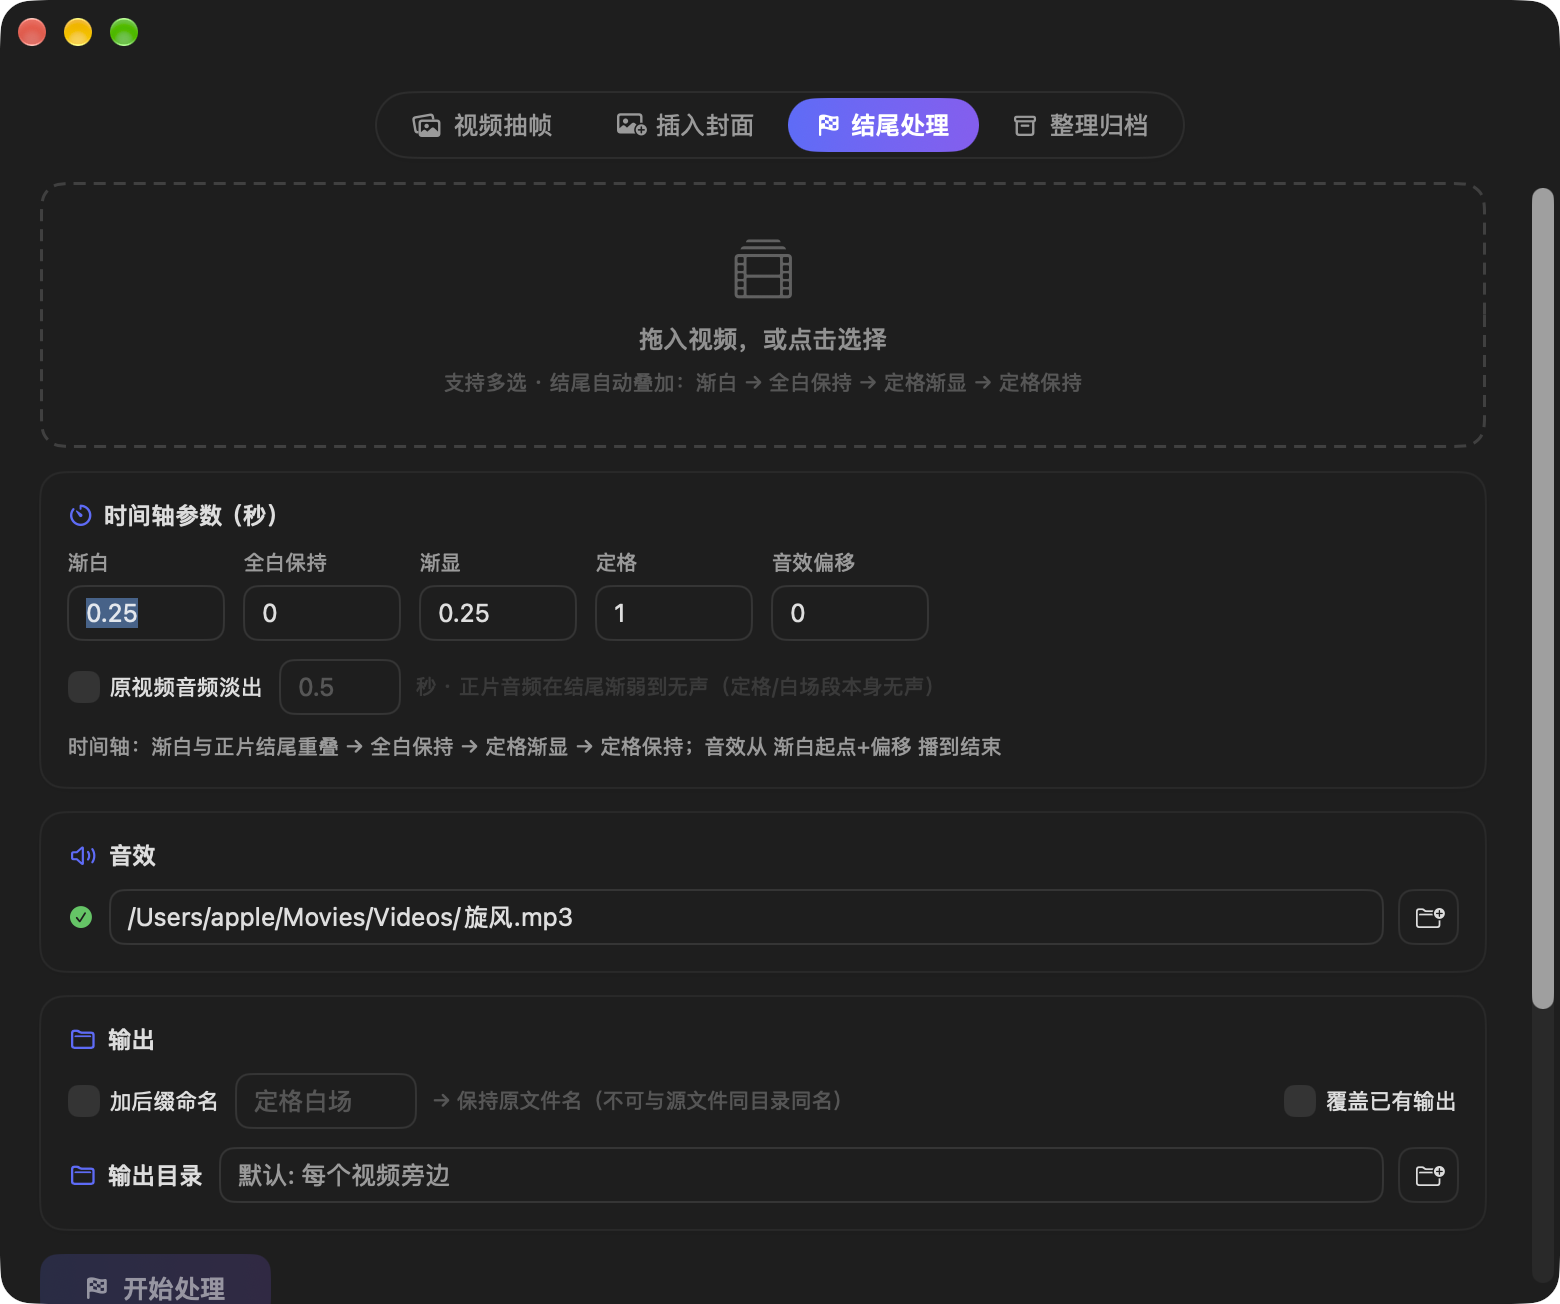
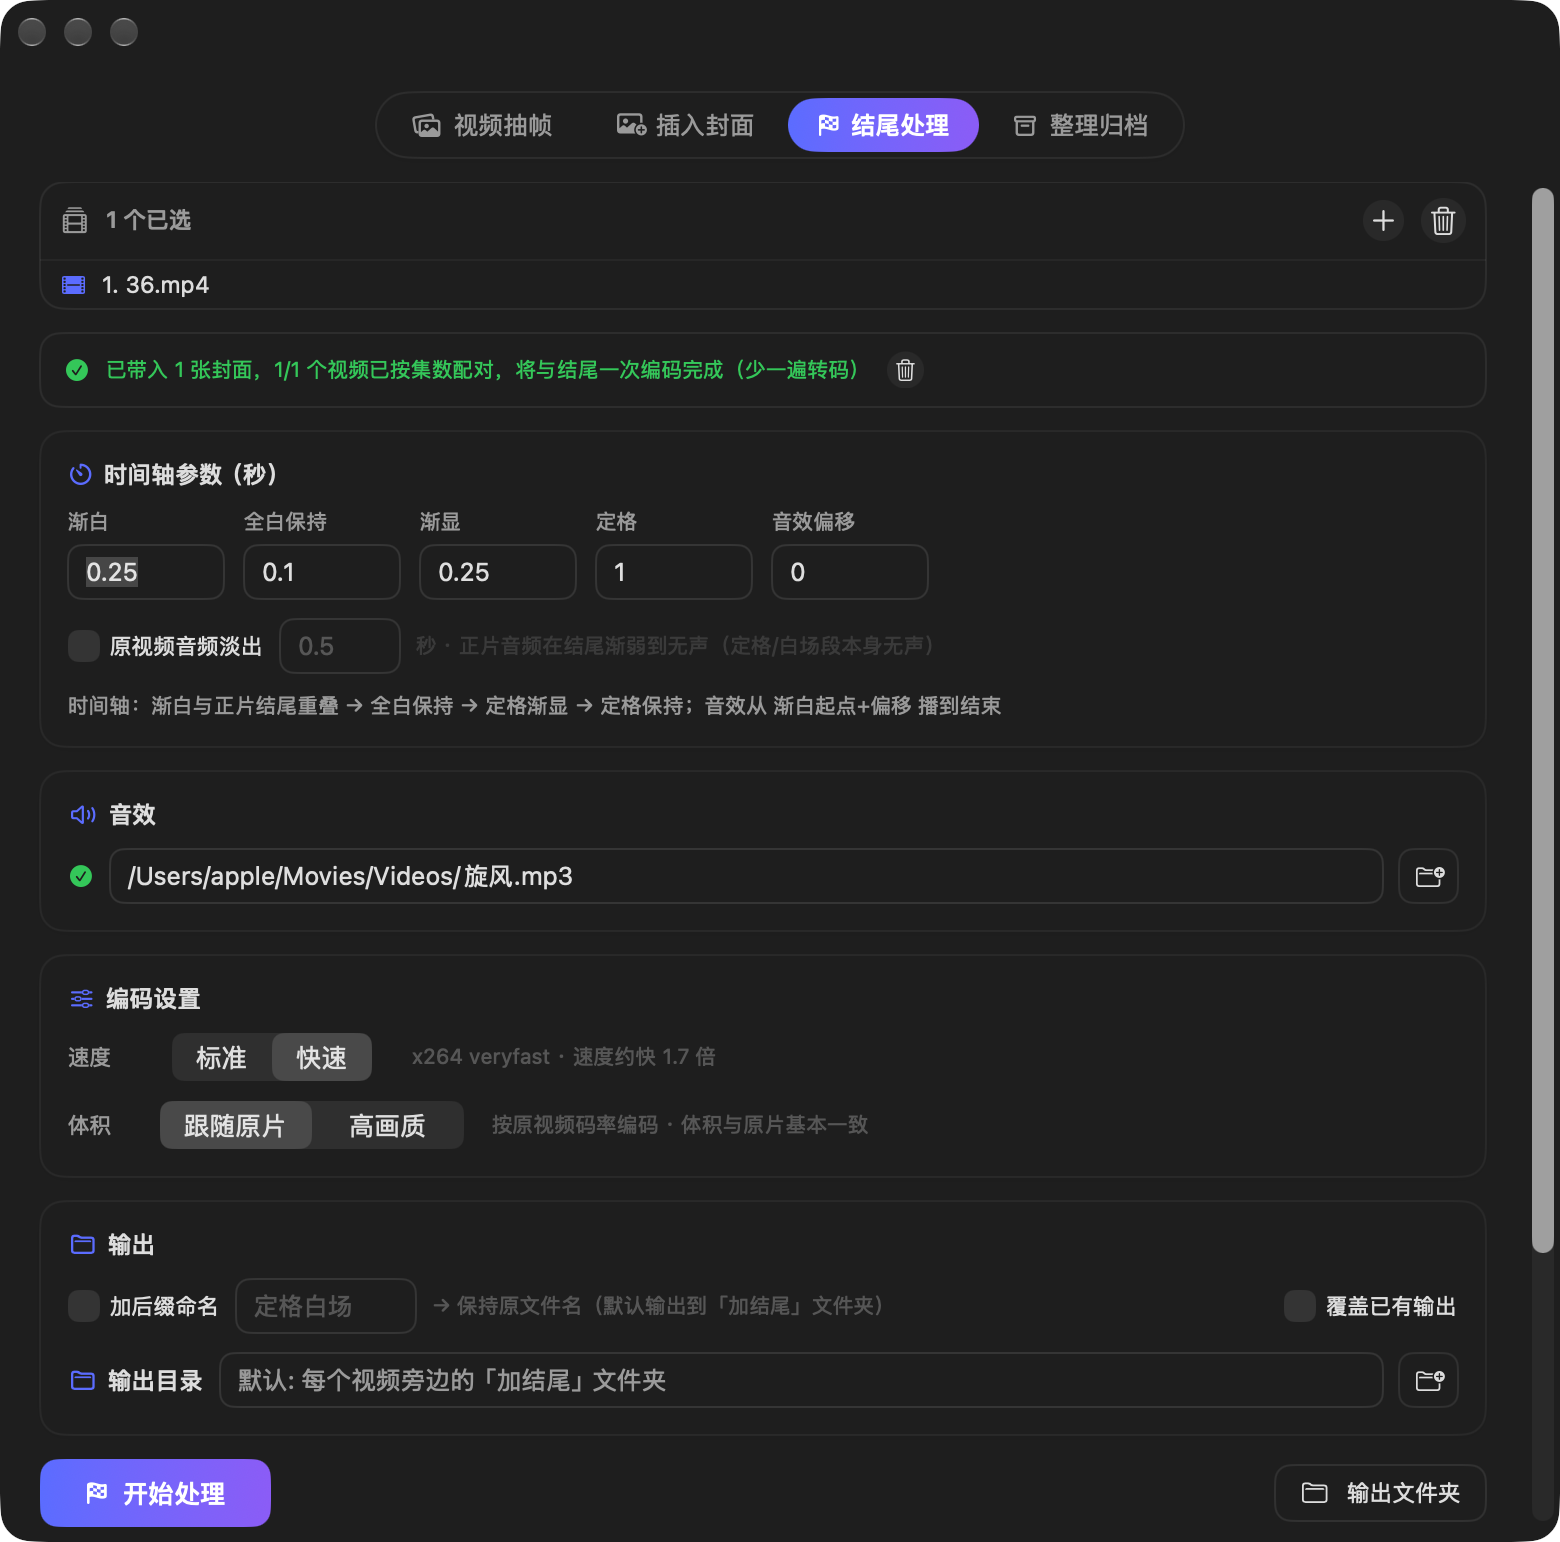
README 更新到 v3.13：四板块当前功能/参数说明、重拍截图、补充构建与设计说明

diff --git a/README.md b/README.md
@@ -2,76 +2,88 @@
 
 一款为短剧/批量视频后期处理打造的 macOS 原生工具（SwiftUI + 内置 ffmpeg），把「抽帧、封面、结尾效果、整理归档」四件事装进一个 App。
 
-![Version](https://img.shields.io/badge/version-3.5-blue) ![Platform](https://img.shields.io/badge/platform-macOS%20Apple%20Silicon-lightgrey) ![Swift](https://img.shields.io/badge/swift-5-orange)
+![Version](https://img.shields.io/badge/version-3.13-blue) ![Platform](https://img.shields.io/badge/platform-macOS%20Apple%20Silicon-lightgrey) ![Swift](https://img.shields.io/badge/swift-5-orange)
 
 ## 功能板块
+
+四个板块常驻在窗口里，左上角切换 —— 切走再切回，已选文件、参数、日志、处理进度都还在。
 
 ### 1. 视频抽帧
 
 ![视频抽帧](screenshots/01_视频抽帧.png)
 
-- 拖入视频（或文件夹），按设定间隔/数量抽取帧图
-- 支持自定义输出目录、PNG/JPG 格式、命名规则
+- 拖入视频（或文件夹），按设定间隔抽取帧图
+- 支持自定义输出目录、PNG/JPG 格式（JPG 可调质量）、起始名称与后缀
 
 ### 2. 插入封面
 
 ![插入封面](screenshots/02_插入封面.png)
 
 - 为视频开头插入一张封面帧（单图或整个封面目录，自动按集数配对，如 EP21 ↔ 封面21）
+- 输出体积档位：**跟随原片**（按源码率，体积约等于原片）／**高质量**（CRF 18）
+- 默认输出到每个视频旁边的「加封面」文件夹
 - 右下角「继续到结尾处理」按钮：一键把视频和封面带到结尾处理板块，合并成一次编码，避免二次转码
 
 ### 3. 结尾处理
 
 ![结尾处理](screenshots/03_结尾处理.png)
+
 结尾时间轴：**渐白 → 全白保持 → 定格渐显 → 定格保持**，可叠加：
-- 🎵 音效（自动对齐到结尾段起点）
+
+- 🎵 音效（自动对齐到结尾段起点，可加偏移）
 - 🔊 原视频音频淡出（可调时长）
-- 📁 输出目录 / 加后缀命名 / 覆盖已存在文件
-- 处理日志实时滚动显示
+- 🏷 加后缀命名，默认输出到每个视频旁边的「加结尾」文件夹
+- ⚡ 编码速度档位：**快速**（veryfast，默认）／**标准**（medium，更慢更省体积）
+- 📦 输出体积：**跟随原片**（默认）／**高质量**
+- ⏱ 实时进度条 + 每集用时 + 总耗时/平均，处理中可随时「停止处理」（已完成的文件保留，半成品自动清理）
 
 ### 4. 整理归档
 
 ![整理归档](screenshots/04_整理归档.png)
 
-- 按模板批量重命名：`{剧名} EP{序号}` 等，序号自动补零
-- 自动分类到「字幕 / 纯净 / 成片」三个子文件夹
-- 重复/冲突检测、模板自动补扩展名、一键撤销上次整理
+- 按模板批量重命名：`{剧名} EP{序号}` 等，支持 `{剧名} {序号} {日期} {时间} {原名} {扩展名}` 占位符
+- **普通视频原地改名**（不再生成「成片」文件夹）；带 `(N)` 副本标记的归到「纯净」，字幕文件归到「字幕」
+- 执行前预览改名对照、重复/冲突检测、执行后一键撤销、导出 CSV 对照表
+- 模板不含 `{扩展名}` 时自动补全后缀，防止输出丢扩展名
 
 ## 运行要求
 
-- macOS（Apple Silicon）
-- **无需安装 ffmpeg** —— 已内置到 App 包内（静态编译版 ffmpeg + ffprobe）
+- macOS 13.0 及以上（Apple Silicon）
+- **无需安装 ffmpeg** —— 已内置到 App 包内（静态编译版 ffmpeg 9.0 + ffprobe）
 
 ## 使用方式
 
-双击 `build/Video Post-Production.app` 即可。
+- 直接双击仓库里的 `build/Video Post-Production.app`
+- 或下载发布包：解压后把 App 拖进「应用程序」
 
 > 首次打开若被 Gatekeeper 拦截：右键 → 打开；或终端执行
-> `xattr -dr com.apple.quarantine "Video Post-Production.app"`
+> `xattr -dr com.apple.quarantine "/Applications/Video Post-Production.app"`
 
 ## 从源码构建
 
 ```bash
-# 编译 GUI App（Bundle 结构见 build/ 下的现成 App）
-swiftc -O -parse-as-library Logic.swift App.swift -o VideoFrameTool
+# 编译 GUI App（注意：可执行文件名为 VideoFrameTool，不是 App 显示名）
+swiftc -disable-sandbox -O -parse-as-library Logic.swift App.swift \
+  -o "build/Video Post-Production.app/Contents/MacOS/VideoFrameTool"
+codesign --force -s - "build/Video Post-Production.app"
 
 # 或编译命令行版
-swiftc -O main.swift Logic.swift -o VideoPostCLI
+swiftc -disable-sandbox -O main.swift Logic.swift -o build/videopost-cli
 ```
 
 ### 命令行示例
 
 ```bash
-# 结尾处理（含音效 + 音频淡出 + 封面一次编码）
-./VideoPostCLI --ending 视频/ --cover 封面/ --sfx 音效.m4a \
+# 结尾处理（含音效 + 音频淡出 + 封面一次编码，快速档、体积跟随原片）
+./videopost-cli --ending 视频/ --cover 封面/ --sfx 音效.m4a \
   --afade 1.0 --hold 1.0 --fade-in 0.25 --freeze 1.0 \
-  --suffix 结尾 --out 输出/
+  --suffix 结尾 --speed fast --size match --out 输出/
 
-# 整理归档（按模板重命名 + 分类夹）
-./VideoPostCLI --cli 视频目录/ 剧名 --execute
+# 整理归档（按模板重命名；普通视频原地改名，副本→纯净、字幕→字幕夹）
+./videopost-cli --cli 视频目录/ 剧名 --template "{剧名} EP{序号}" --organize --execute
 
 # 撤销上次整理
-./VideoPostCLI --undo
+./videopost-cli --undo
 ```
 
 ## 项目结构
@@ -80,11 +92,15 @@ swiftc -O main.swift Logic.swift -o VideoPostCLI
 ├── App.swift        # SwiftUI 界面（四大板块 + 通用组件）
 ├── Logic.swift      # 引擎：抽帧/封面/结尾(EndingEngine)/整理(DramaOrganizer)
 ├── main.swift       # CLI 入口与路由
-└── build/           # 现成的 App（内置 ffmpeg）
+├── screenshots/     # 四个板块的界面截图
+└── build/           # 现成的 App（内置 ffmpeg / ffprobe）
 ```
 
 ## 设计说明
 
-- 所有设置通过 `@AppStorage`（UserDefaults）持久化，重开 App 自动恢复
+- 四个板块用 `ZStack` 常驻视图树，切换只改 `opacity / allowsHitTesting`，不销毁 View，因此 `@State` 内容不丢
+- 设置通过 `@AppStorage`（UserDefaults，键前缀 `fxt_`）持久化，重开 App 自动恢复
 - 内置 ffmpeg 定位优先级：App 包内 Resources → `~/.local/bin` → `/opt/homebrew/bin` 等系统路径
-- 重命名带防呆护栏：模板不含 `{扩展名}` 时自动补全；同名同目录输出会被拒绝，防止顶掉源文件
+- 进度来自 ffmpeg `-progress pipe:1` 的 `out_time_us` 实时解析，不是估算
+- 停止处理通过全局 `RunControl` 终止进程（`terminate` + 0.5s 后 `SIGKILL` 兜底）
+- 重命名防呆护栏：模板不含 `{扩展名}` 时自动补全；计划内重名目标会被标红并阻止执行
